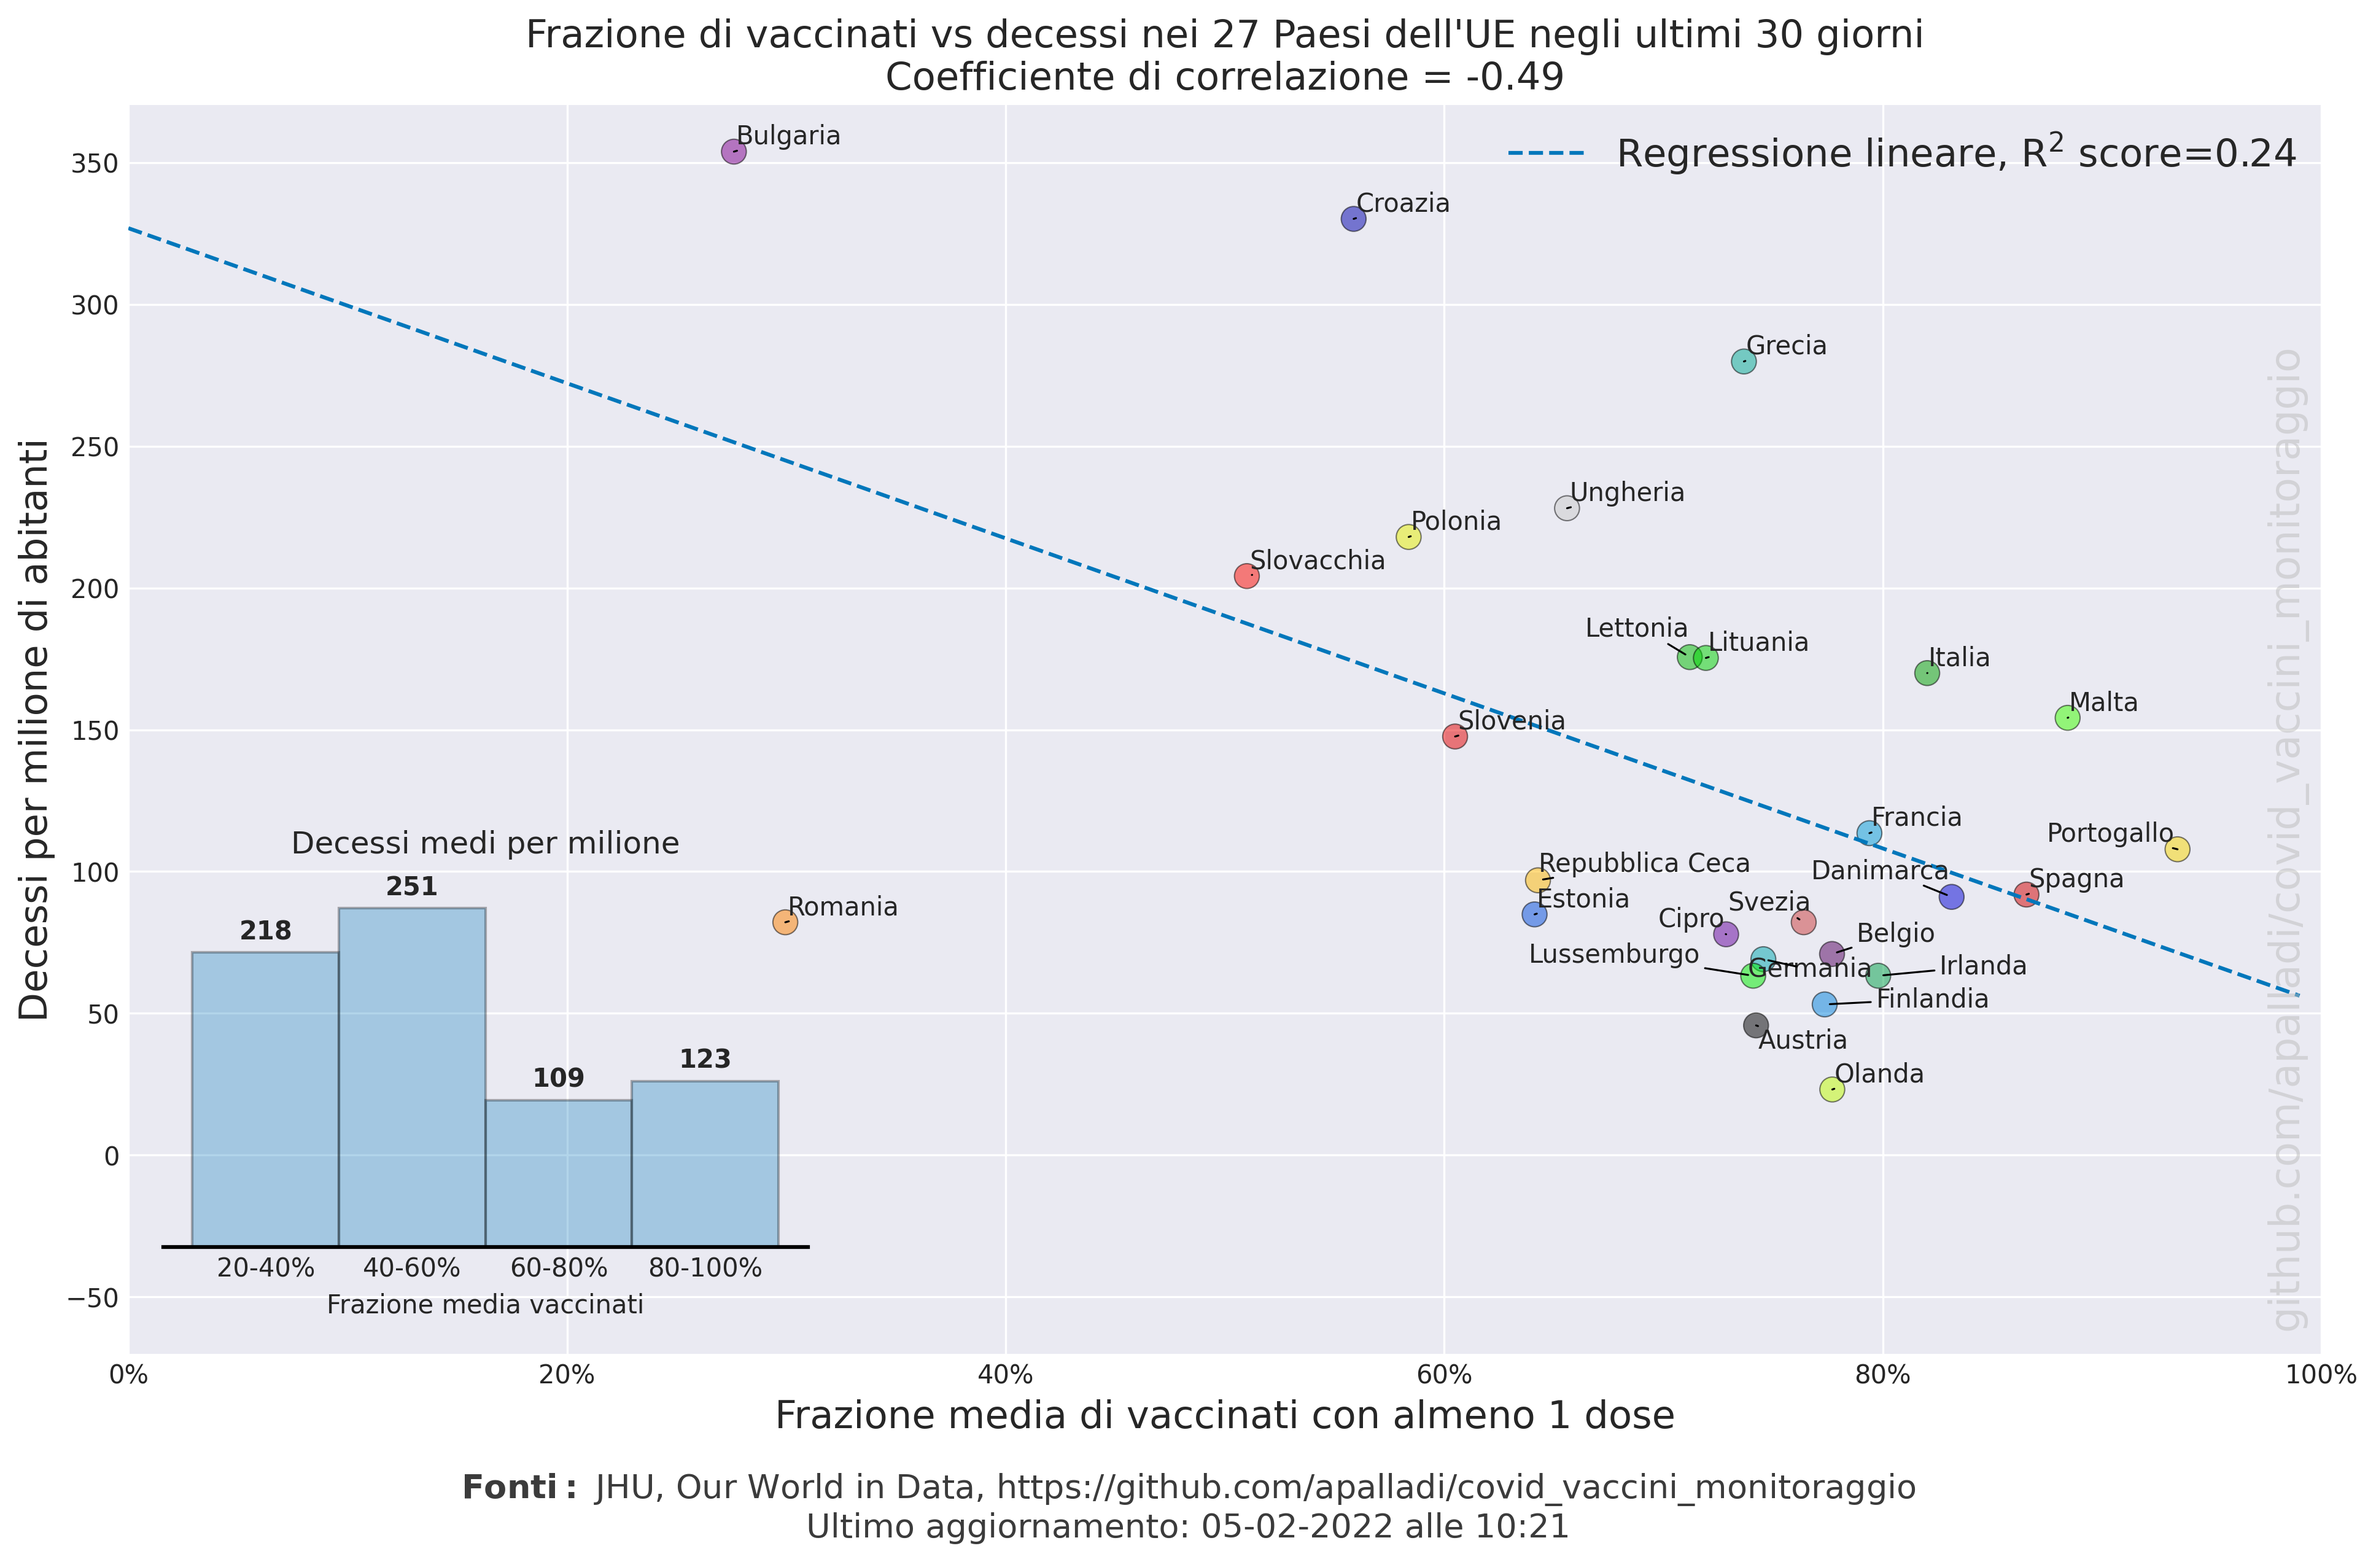
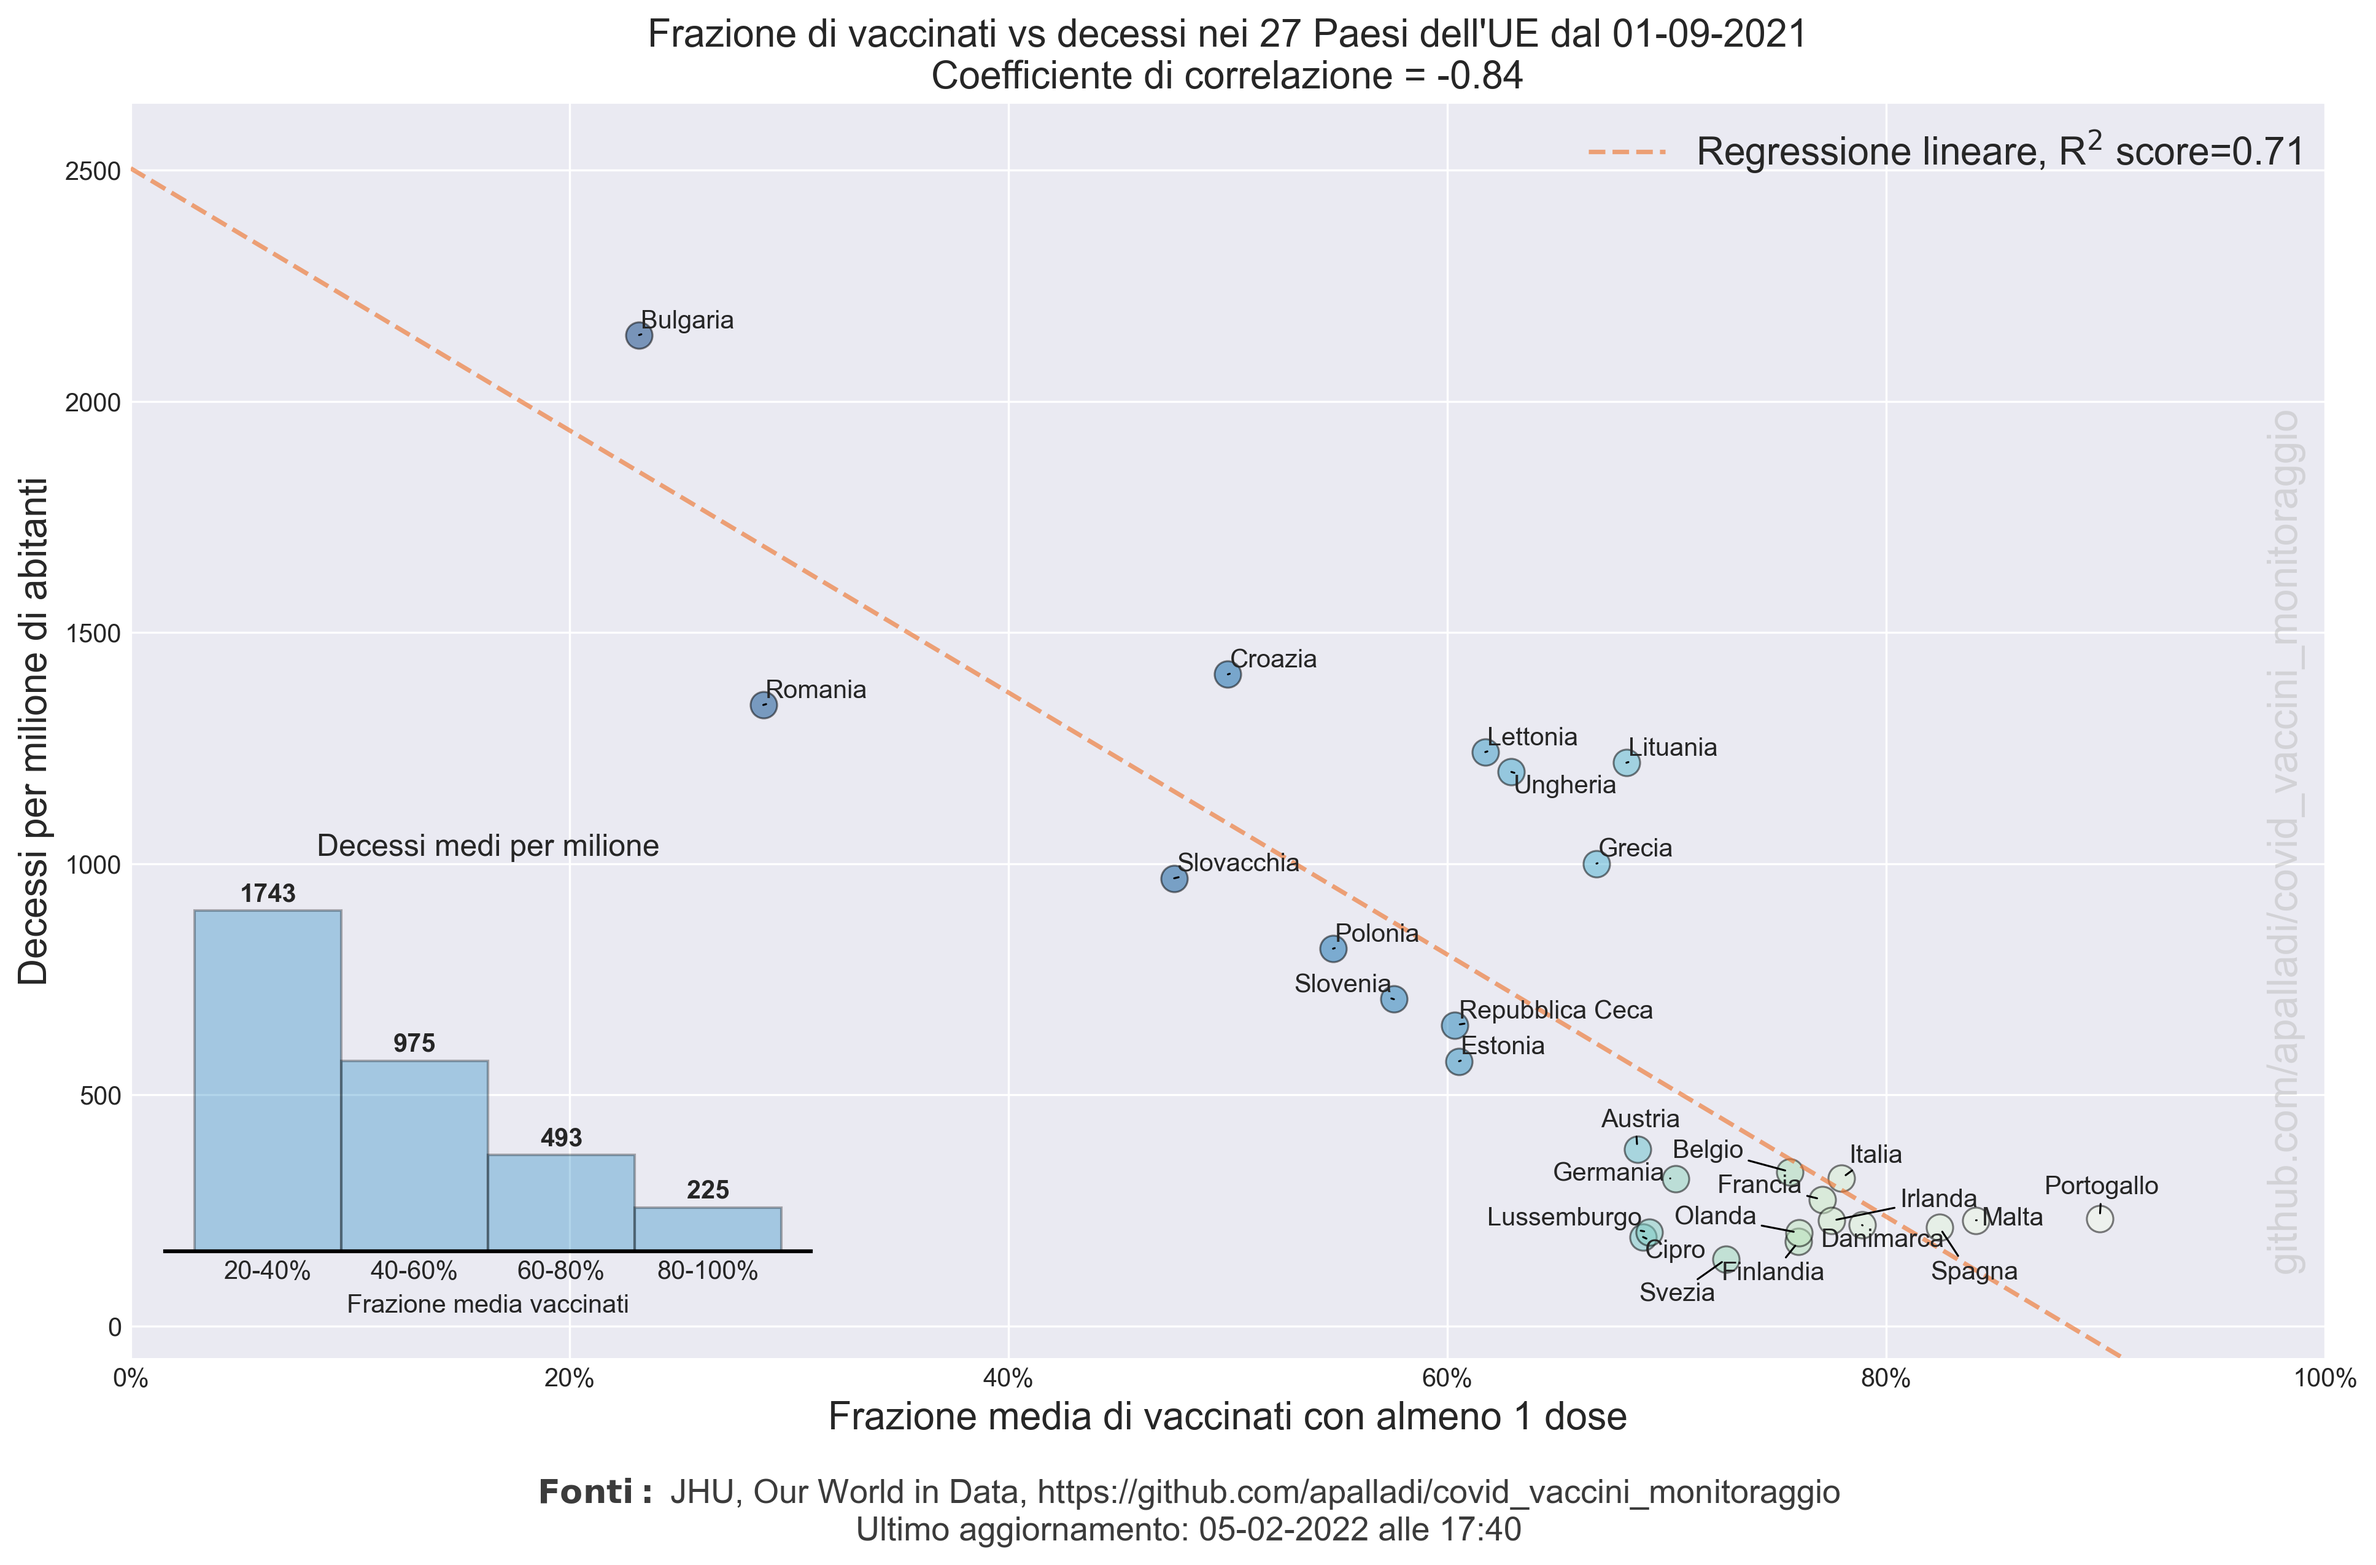
Miglioramento grafico correlazione
Il grafico relativo agli ultimi 30 giorni è stato rimosso
in quanto non tiene conto dei ritardi tra le ondate.

diff --git a/scripts/confronti_europei.py b/scripts/confronti_europei.py
@@ -20,7 +20,7 @@ from custom.watermarks import add_last_updated, add_watermark
 def import_vaccines_data():
     """ Recupera dati sui vaccini da Our World in Data"""
 
-    url = "https://raw.githubusercontent.com/owid/covid-19-data/master/public/data/vaccinations/vaccinations.csv"  
+    url = "https://raw.githubusercontent.com/owid/covid-19-data/master/public/data/vaccinations/vaccinations.csv"
     df_vacc = pd.read_csv(url)
     df_vacc = df_vacc.fillna(method="ffill")
     return df_vacc
@@ -257,15 +257,22 @@ def plot_correlazione_vaccini_decessi(tw=30, show=False):
     fig, ax = plt.subplots(figsize=(13, 8))
 
     # scatter plot
-    # genera lista di colori e dimensioni
-    colors = plt.cm.nipy_spectral(np.linspace(0, 1, len(paesi_eu_ita)))
-    volume = 3.5*len(paesi_eu_ita)
+    volume = dec_res.max()*0.050
 
-    ax.scatter(vacc_res, dec_res, c=colors, alpha=0.50,
-               edgecolor="black", linewidth=0.5, s=volume)
+    # genera lista di colori
+    num_colors = len(paesi_abitanti_eu)
+    cm = plt.get_cmap("GnBu_r")
+    ax.set_prop_cycle("color", [cm(i/num_colors) for i in range(num_colors)])
+
+    # ordina valori in un df per far si che seguano la sequenza dei colori
+    df_ = pd.DataFrame({"% vaccini": vacc_res, "decessi": dec_res})
+    df_.sort_values(by="% vaccini", inplace=True)
+    for i in range(num_colors):
+        ax.scatter(df_["% vaccini"].values[i], df_["decessi"].values[i],
+                   alpha=0.50, edgecolor="black", linewidth=0.75, s=volume)
 
     texts = [ax.text(vacc_res[i], dec_res[i], paesi_eu_ita[i])
-             for i in range(len(paesi_eu_ita))]
+             for i in range(num_colors)]
 
     # fix text overlap
     adjust_text(texts,
@@ -273,20 +280,16 @@ def plot_correlazione_vaccini_decessi(tw=30, show=False):
                 arrowprops=dict(arrowstyle="-", linewidth=.75))
 
     # fit plot
-    ax.plot(x_grid, y_grid, linestyle="--", c=palette[1], label=f"Regressione lineare, R$^2$ score={score}")
+    ax.plot(x_grid, y_grid, linestyle="--", c=palette[0], linewidth=1.75,
+            alpha=0.65, label=f"Regressione lineare, R$^2$ score={score}")
 
     ax.set_ylim(-70, )
     ax.set_xlim(0, 100)
 
-    f_name = "vaccini_decessi_EU"
-    title = f"Frazione di vaccinati vs decessi nei 27 Paesi dell'UE negli ultimi {tw} giorni"
-    if tw > 30:
-        date_start = date.today() - timedelta(days=tw)
-        start_day = date_start.strftime("%d-%m-%Y")
-        title = f"Frazione di vaccinati vs decessi nei 27 Paesi dell'UE dal {start_day}"
-        start_day.replace("-", "_")
-        f_name += f"_{start_day}"
+    date_start = date.today() - timedelta(days=tw)
+    start_day = date_start.strftime("%d-%m-%Y")
 
+    title = f"Frazione di vaccinati vs decessi nei 27 Paesi dell'UE dal {start_day}"
     title += f"\nCoefficiente di correlazione = {corr_coeff}"
     ax.set_title(title, fontsize=15)
     ax.set_xlabel("Frazione media di vaccinati con almeno 1 dose", fontsize=15)
@@ -329,7 +332,7 @@ def plot_correlazione_vaccini_decessi(tw=30, show=False):
              rotation="vertical")
     add_last_updated(fig, ax, dati="JHU, Our World in Data", y=-0.05)
 
-    fig.savefig(f"../risultati/{f_name}.png",
+    fig.savefig("../risultati/vaccini_decessi_EU.png",
                 dpi=300,
                 bbox_inches="tight")
 
@@ -370,10 +373,6 @@ if __name__ == "__main__":
 
     # plot dati selezione paesi
     plot_selection()
-
-    # plot correlazione vaccini vs. decessi per paesi eu
-    # negli ultimi 30 giorni
-    plot_correlazione_vaccini_decessi()
 
     # plot correlazione vaccini vs. decessi per paesi eu
     # dal 1° settembre 2021
